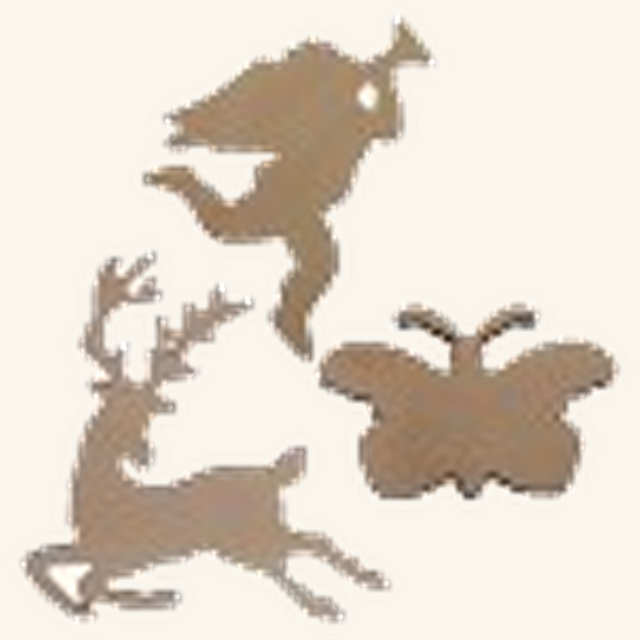
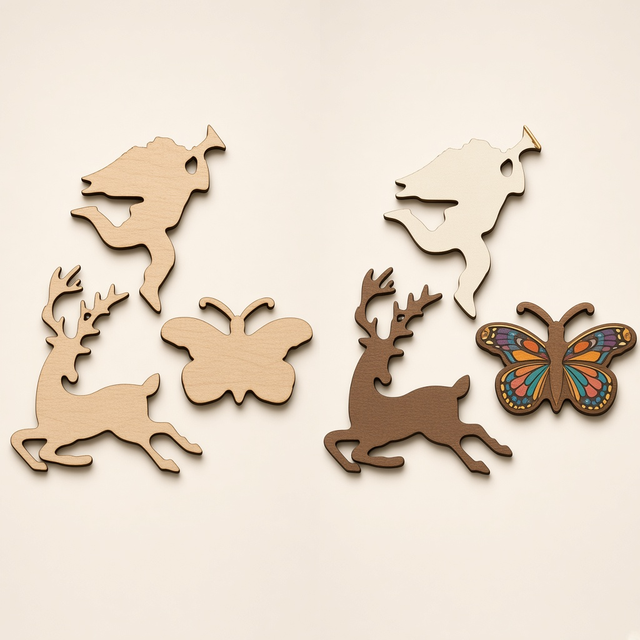
Replace blanks thumbs with photo-real natural and painted pairs.

diff --git a/заготовки.html b/заготовки.html
@@ -170,9 +170,9 @@
 
     <header class="page-head">
       <h1>Заготовки для творчества</h1>
-      <p>Лазерные заготовки из фанеры: именные подвесы, топперы, буквы и цифры, силуэты, значки, заготовки под часы и наборы для декора. Можно повторить с вашим текстом и размером.</p>
+      <p>Лазерные заготовки из фанеры: именные подвесы, топперы, буквы и цифры, силуэты, значки, заготовки под часы и наборы для декора. На фото — необработанная заготовка и пример раскрашенного вида.</p>
     </header>
-    <p class="note">Размеры, цены и сроки ниже — ориентиры для согласования. Для витрины использованы примеры ассортимента; в производстве сделаем по вашему макету.</p>
+    <p class="note">Размеры, цены и сроки ниже — ориентиры для согласования. В производстве повторим с вашим текстом, размером и покраской.</p>
 
     <section class="grid" aria-label="Варианты заготовок">
       <article class="card">
@@ -181,7 +181,7 @@
         </div>
         <div class="card__body">
           <h2 class="card__title">Цветы и животные</h2>
-          <p class="card__desc">Базовый набор форм под роспись, декупаж и декор.</p>
+          <p class="card__desc">Набор форм под роспись: слева заготовка, справа пример покраски.</p>
           <ul class="specs">
             <li><span>Материал</span><strong>Фанера</strong></li>
             <li><span>Размер</span><strong>от 3–15 см</strong></li>
@@ -198,7 +198,7 @@
         </div>
         <div class="card__body">
           <h2 class="card__title">Именные шары-подвесы</h2>
-          <p class="card__desc">Ёлочные и декоративные подвесы с именем и орнаментом.</p>
+          <p class="card__desc">Именной подвес: натуральная фанера и раскрашенный вариант.</p>
           <ul class="specs">
             <li><span>Материал</span><strong>Фанера</strong></li>
             <li><span>Размер</span><strong>Ø примерно 6–10 см</strong></li>
@@ -215,7 +215,7 @@
         </div>
         <div class="card__body">
           <h2 class="card__title">Именные линейки</h2>
-          <p class="card__desc">Сантиметровые линейки-заготовки с гравировкой имени.</p>
+          <p class="card__desc">Именная линейка: заготовка из фанеры и готовый раскрашенный вид.</p>
           <ul class="specs">
             <li><span>Материал</span><strong>Фанера</strong></li>
             <li><span>Размер</span><strong>до 20–30 см</strong></li>
@@ -232,7 +232,7 @@
         </div>
         <div class="card__body">
           <h2 class="card__title">Топперы</h2>
-          <p class="card__desc">Свадебные и праздничные топперы с именами и орнаментом.</p>
+          <p class="card__desc">Топпер с именами: сырая заготовка и окрашенный пример.</p>
           <ul class="specs">
             <li><span>Материал</span><strong>Фанера</strong></li>
             <li><span>Размер</span><strong>по макету</strong></li>
@@ -249,7 +249,7 @@
         </div>
         <div class="card__body">
           <h2 class="card__title">Буквы и цифры</h2>
-          <p class="card__desc">Отдельные символы для декора, метрик и надписей.</p>
+          <p class="card__desc">Буквы и цифры: натуральное дерево и цветной вариант.</p>
           <ul class="specs">
             <li><span>Материал</span><strong>Фанера</strong></li>
             <li><span>Размер</span><strong>от 3 см и выше</strong></li>
@@ -266,7 +266,7 @@
         </div>
         <div class="card__body">
           <h2 class="card__title">Заготовки для часов</h2>
-          <p class="card__desc">Циферблаты и основы под механизм, в том числе ажурные.</p>
+          <p class="card__desc">Основа для часов: фанера и пример декоративной покраски.</p>
           <ul class="specs">
             <li><span>Материал</span><strong>Фанера</strong></li>
             <li><span>Размер</span><strong>Ø 20–40 см</strong></li>
@@ -283,7 +283,7 @@
         </div>
         <div class="card__body">
           <h2 class="card__title">Значки</h2>
-          <p class="card__desc">Плоские формы под роспись, эпоксидку и фурнитуру.</p>
+          <p class="card__desc">Значок-заготовка и тот же мотив после покраски.</p>
           <ul class="specs">
             <li><span>Материал</span><strong>Фанера</strong></li>
             <li><span>Размер</span><strong>3–8 см</strong></li>
@@ -300,7 +300,7 @@
         </div>
         <div class="card__body">
           <h2 class="card__title">Силуэты</h2>
-          <p class="card__desc">Ангелы, животные, бабочки и другие контуры для декора.</p>
+          <p class="card__desc">Силуэты из фанеры и раскрашенные примеры рядом.</p>
           <ul class="specs">
             <li><span>Материал</span><strong>Фанера</strong></li>
             <li><span>Размер</span><strong>по макету</strong></li>
@@ -317,7 +317,7 @@
         </div>
         <div class="card__body">
           <h2 class="card__title">Трафареты для творчества</h2>
-          <p class="card__desc">Яблоки, груши, досочки и другие формы под роспись.</p>
+          <p class="card__desc">Трафаретные формы: натуральные и раскрашенные.</p>
           <ul class="specs">
             <li><span>Материал</span><strong>Фанера</strong></li>
             <li><span>Размер</span><strong>по макету</strong></li>
@@ -334,7 +334,7 @@
         </div>
         <div class="card__body">
           <h2 class="card__title">Наборы для декорирования</h2>
-          <p class="card__desc">Комплекты мелких форм: цветы, сердца, листья, животные.</p>
+          <p class="card__desc">Набор мелких форм: заготовки и цветной комплект.</p>
           <ul class="specs">
             <li><span>Материал</span><strong>Фанера</strong></li>
             <li><span>Состав</span><strong>набор форм</strong></li>

diff --git a/index.html b/index.html
@@ -1121,7 +1121,7 @@
               </div>
               <div class="card__body">
                 <h3 class="card__title">Заготовки для творчества</h3>
-                <p class="card__desc">Топперы, буквы, подвесы, силуэты, значки и наборы</p>
+                <p class="card__desc">Заготовка и раскрашенный вид: топперы, буквы, подвесы</p>
                 <p class="card__price">Варианты и размеры внутри</p>
                 <span class="btn btn--ghost btn--small btn--block" aria-hidden="true">Смотреть варианты</span>
               </div>
